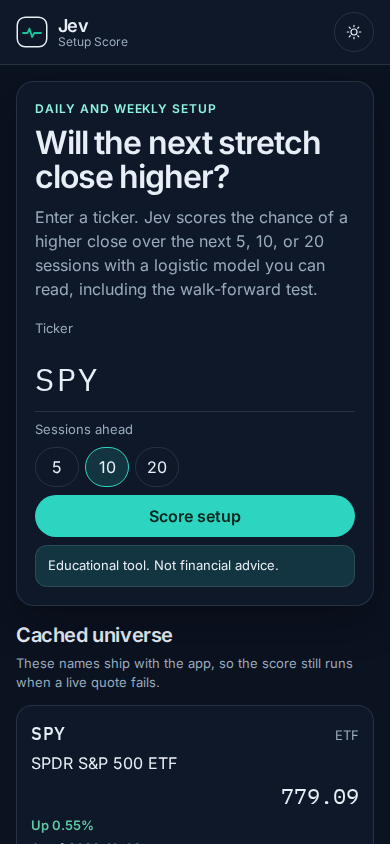
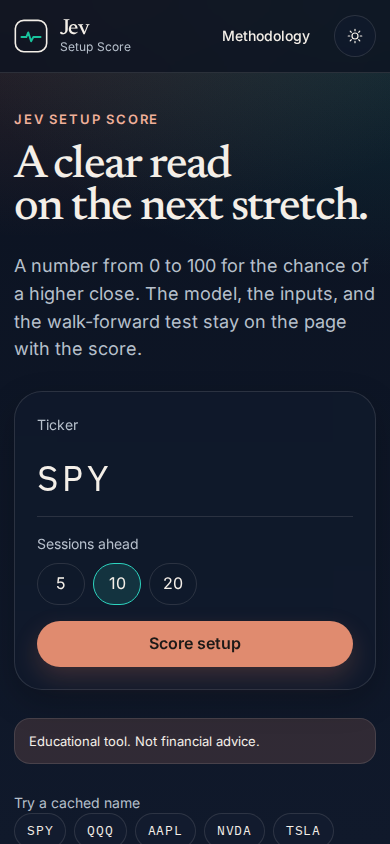
Refresh screenshots for the v1.1 interface.
Replace the desktop and phone captures in light and dark, add the methodology and past-score views, and drop the stale backtest crops from the previous layout.

diff --git a/README.md b/README.md
@@ -16,6 +16,8 @@ Light mode, desktop.
 
 ![Methodology](docs/screenshots/methodology-light-desktop.png)
 
+![Past scores](docs/screenshots/examples-light-desktop.png)
+
 Dark mode, desktop.
 
 ![Home in dark mode](docs/screenshots/home-dark-desktop.png)
